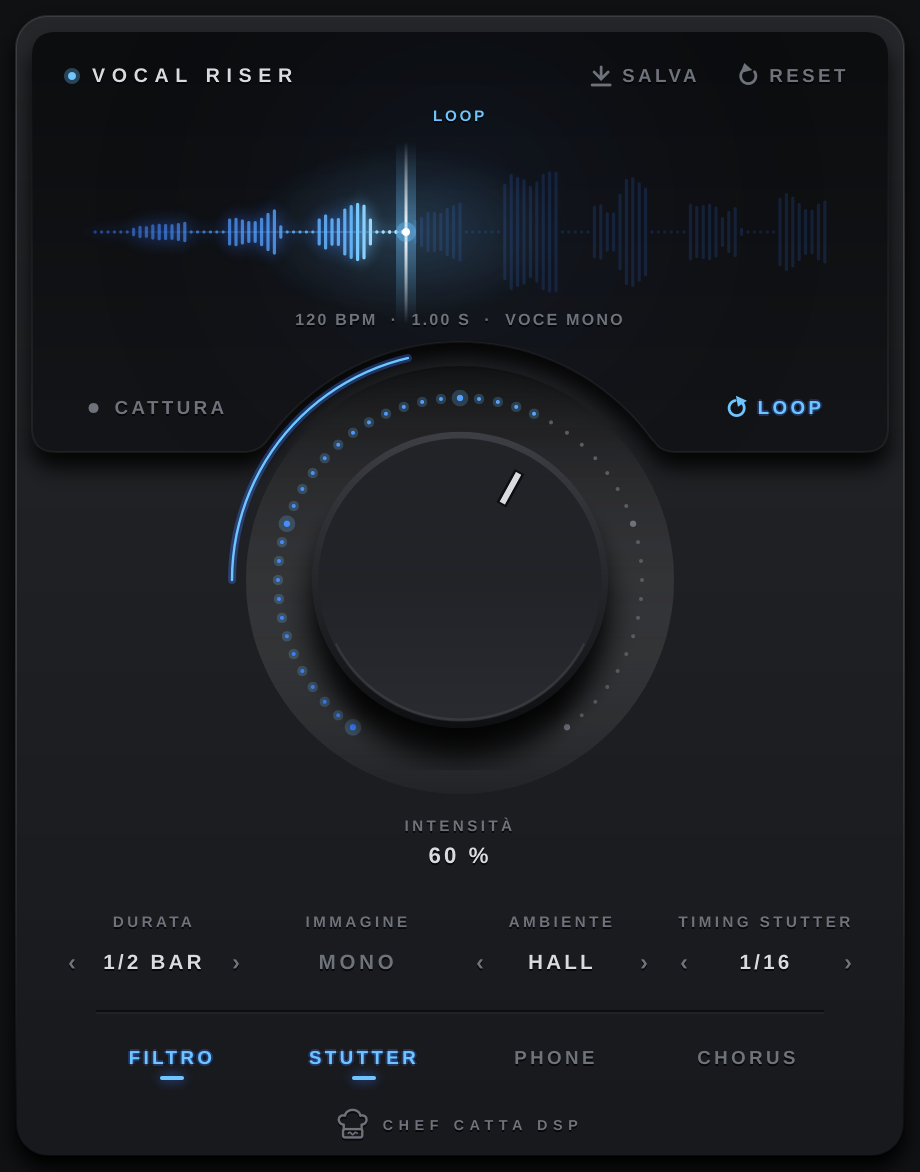
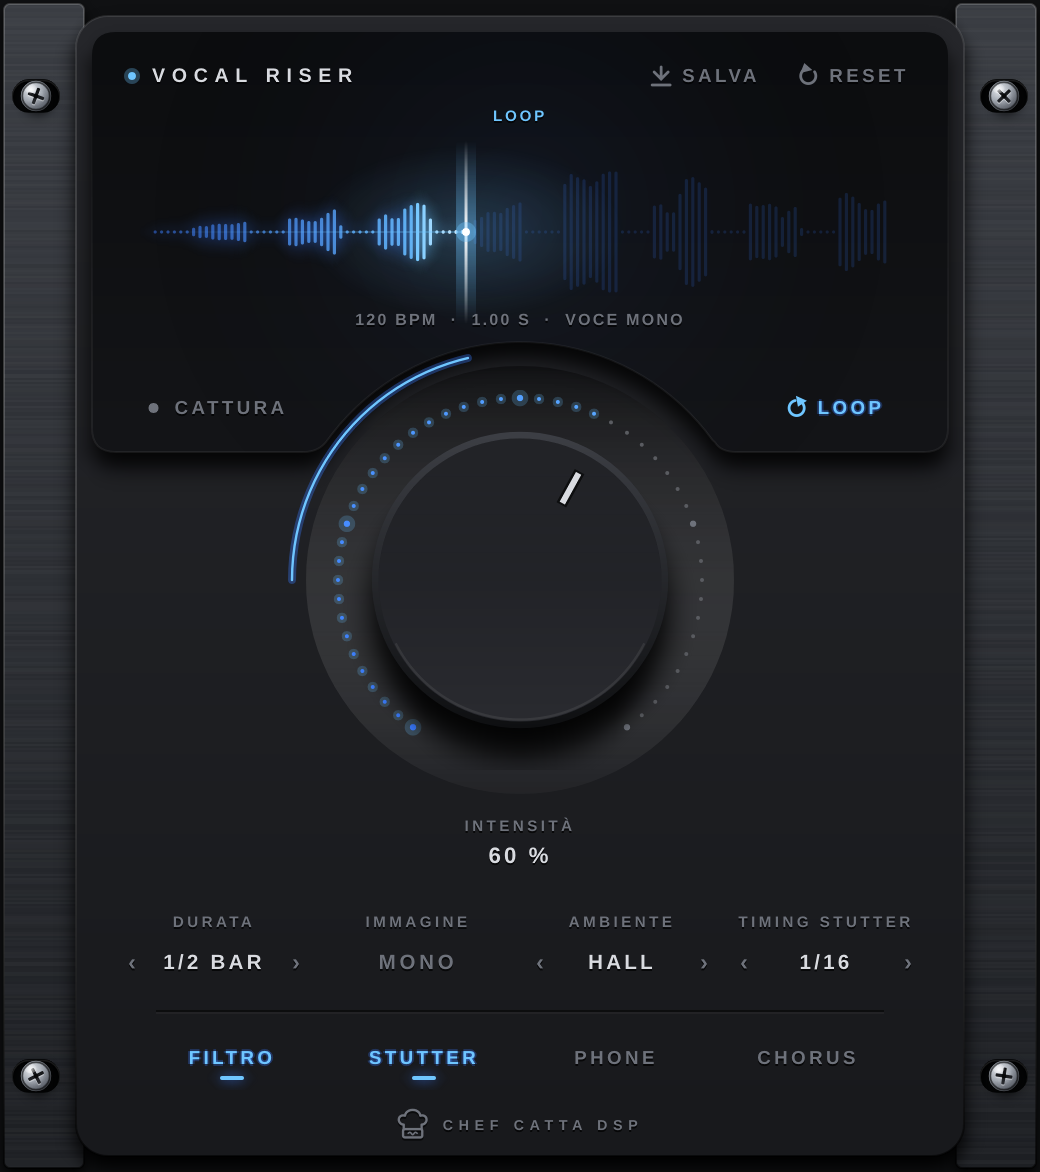
Orecchie da rack con viti 3D
Claude-Session: https://claude.ai/code/session_01HaF7XKr7HpkpQMPQsrDZc5

diff --git a/Source/PluginEditor.cpp b/Source/PluginEditor.cpp
@@ -410,6 +410,129 @@ void ArrowSelector::paint (juce::Graphics& g)
 }
 
 //==============================================================================
+// Vite a croce in metallo, vista dall'alto con luce da in alto a sinistra
+static void drawScrew (juce::Graphics& g, juce::Point<float> c, float r, float angle)
+{
+    // asola del rack: foro ovale scavato nel metallo
+    {
+        auto slot = juce::Rectangle<float> (r * 3.5f, r * 2.45f).withCentre (c);
+        juce::Path s;
+        s.addRoundedRectangle (slot, slot.getHeight() * 0.5f);
+        g.setColour (juce::Colour (0xff060708));
+        g.fillPath (s);
+        juce::Graphics::ScopedSaveState ss (g);
+        g.reduceClipRegion (s);
+        juce::Path ring;
+        ring.addRectangle (slot.expanded (10.0f));
+        ring.addRoundedRectangle (slot, slot.getHeight() * 0.5f);
+        ring.setUsingNonZeroWinding (false);
+        juce::DropShadow (juce::Colours::black, 5, { 0, 2 }).drawForPath (g, ring);
+        g.setColour (juce::Colours::white.withAlpha (0.10f));
+        g.drawRoundedRectangle (slot.translated (0.0f, 0.6f), slot.getHeight() * 0.5f, 0.8f);
+    }
+
+    juce::Path head;
+    head.addEllipse (c.x - r, c.y - r, r * 2.0f, r * 2.0f);
+
+    // ombra proiettata sul metallo
+    juce::DropShadow (juce::Colours::black.withAlpha (0.9f), juce::roundToInt (r * 0.9f), { 1, juce::roundToInt (r * 0.35f) }).drawForPath (g, head);
+
+    // rondella
+    const float wr = r * 1.12f;
+    g.setGradientFill (juce::ColourGradient (juce::Colour (0xff9aa0a8), c.x - wr, c.y - wr, juce::Colour (0xff2b2e33), c.x + wr, c.y + wr, false));
+    g.fillEllipse (c.x - wr, c.y - wr, wr * 2.0f, wr * 2.0f);
+
+    // testa bombata: gradiente radiale decentrato verso la luce
+    juce::ColourGradient dome (juce::Colour (0xffe9ecf0), c.x - r * 0.35f, c.y - r * 0.45f,
+                               juce::Colour (0xff3b3f46), c.x + r * 0.9f, c.y + r * 0.9f, true);
+    dome.addColour (0.45, juce::Colour (0xffa3a9b2));
+    dome.addColour (0.8, juce::Colour (0xff5a5f68));
+    g.setGradientFill (dome);
+    g.fillPath (head);
+
+    // finitura spazzolata concentrica, molto leggera
+    for (int i = 1; i < 6; ++i)
+    {
+        const float rr = r * (float) i / 6.0f;
+        g.setColour (juce::Colours::white.withAlpha (i % 2 ? 0.035f : 0.0f));
+        g.drawEllipse (c.x - rr, c.y - rr, rr * 2.0f, rr * 2.0f, 0.6f);
+    }
+
+    // croce Phillips incisa (ombra interna + bordo illuminato)
+    {
+        const float L = r * 0.62f, wdt = r * 0.24f;
+        juce::Path cross;
+        cross.addRoundedRectangle (-L, -wdt * 0.5f, L * 2.0f, wdt, wdt * 0.3f);
+        cross.addRoundedRectangle (-wdt * 0.5f, -L, wdt, L * 2.0f, wdt * 0.3f);
+        cross.setUsingNonZeroWinding (true);
+        const auto tf = juce::AffineTransform::rotation (angle).translated (c);
+
+        g.setColour (juce::Colours::white.withAlpha (0.35f));
+        g.fillPath (cross, tf.translated (0.0f, 0.7f));              // bordo inferiore illuminato
+        g.setGradientFill (juce::ColourGradient (juce::Colour (0xff0d0e10), c.x, c.y - L,
+                                                 juce::Colour (0xff2a2d32), c.x, c.y + L, false));
+        g.fillPath (cross, tf);
+        juce::Path centre;
+        centre.addEllipse (-wdt * 0.7f, -wdt * 0.7f, wdt * 1.4f, wdt * 1.4f);
+        g.setColour (juce::Colour (0xff08090a));
+        g.fillPath (centre, tf);
+    }
+
+    // riflesso speculare
+    juce::ColourGradient spec (juce::Colours::white.withAlpha (0.75f), c.x - r * 0.4f, c.y - r * 0.5f,
+                               juce::Colours::white.withAlpha (0.0f), c.x - r * 0.4f + r * 0.55f, c.y - r * 0.5f, true);
+    g.setGradientFill (spec);
+    g.fillEllipse (c.x - r * 0.85f, c.y - r * 0.9f, r * 0.9f, r * 0.7f);
+
+    // bordo della testa
+    g.setColour (juce::Colours::black.withAlpha (0.55f));
+    g.drawEllipse (c.x - r, c.y - r, r * 2.0f, r * 2.0f, 0.8f);
+}
+
+void VocalRiserAudioProcessorEditor::drawRackEars (juce::Graphics& g)
+{
+    const auto full = getLocalBounds().toFloat();
+    const float earW = (float) rackEar + 14.0f;   // le orecchie passano un po' sotto al corpo
+    const float angles[] = { 0.35f, 1.1f, 0.8f, 0.15f };
+    int k = 0;
+
+    for (int side = 0; side < 2; ++side)
+    {
+        auto ear = side == 0 ? full.withWidth (earW).reduced (2.0f, 2.0f)
+                             : full.withTrimmedLeft (full.getWidth() - earW).reduced (2.0f, 2.0f);
+        juce::Path p;
+        p.addRoundedRectangle (ear, 3.0f);
+
+        juce::DropShadow (juce::Colours::black, 8, { 0, 3 }).drawForPath (g, p);
+
+        // alluminio anodizzato scuro, spazzolato orizzontalmente
+        g.setGradientFill (juce::ColourGradient (juce::Colour (0xff3a3d43), ear.getX(), ear.getY(),
+                                                 juce::Colour (0xff1d1f23), ear.getX(), ear.getBottom(), false));
+        g.fillPath (p);
+        {
+            juce::Graphics::ScopedSaveState ss (g);
+            g.reduceClipRegion (p);
+            juce::Random rng (side * 77 + 5);
+            for (float yy = ear.getY(); yy < ear.getBottom(); yy += 1.0f)
+            {
+                g.setColour (juce::Colours::white.withAlpha (rng.nextFloat() * 0.035f));
+                g.fillRect (ear.getX(), yy, ear.getWidth(), 1.0f);
+            }
+        }
+        // smusso
+        g.setGradientFill (juce::ColourGradient (juce::Colours::white.withAlpha (0.18f), 0.0f, ear.getY(),
+                                                 juce::Colours::black.withAlpha (0.6f), 0.0f, ear.getBottom(), false));
+        g.strokePath (p, juce::PathStrokeType (1.0f));
+
+        // due viti per lato, nella parte visibile dell'orecchia
+        const float cx = side == 0 ? ear.getX() + (float) rackEar * 0.5f + 1.0f
+                                   : ear.getRight() - (float) rackEar * 0.5f - 1.0f;
+        for (float cy : { ear.getY() + 46.0f, ear.getBottom() - 46.0f })
+            drawScrew (g, { cx, cy }, 6.8f, angles[k++]);
+    }
+}
+
+//==============================================================================
 VocalRiserAudioProcessorEditor::VocalRiserAudioProcessorEditor (VocalRiserAudioProcessor& p)
     : AudioProcessorEditor (&p), proc (p), wave (p),
       lengthSel (*p.apvts.getParameter ("length"), "DURATA", { "1/4 BAR", "1/2 BAR", "1 BAR", "2 BAR" }),
@@ -485,7 +608,7 @@ VocalRiserAudioProcessorEditor::VocalRiserAudioProcessorEditor (VocalRiserAudioP
         buttonAtts.push_back (std::make_unique<ButtonAtt> (apvts, fxIds[i], b));
     }
 
-    setSize (460, 586);
+    setSize (460 + 2 * rackEar, 586);
     timerCallback();
     startTimerHz (60);
 }
@@ -515,7 +638,8 @@ void VocalRiserAudioProcessorEditor::paint (juce::Graphics& g)
     g.fillAll (Colours::bg);
 
     // Corpo
-    auto shellR = getLocalBounds().reduced (8).toFloat();
+    drawRackEars (g);
+    auto shellR = getLocalBounds().reduced (8).reduced (rackEar, 0).toFloat();
     juce::Path shell;
     shell.addRoundedRectangle (shellR, 16.0f);
     juce::DropShadow (juce::Colours::black, 16, { 0, 6 }).drawForPath (g, shell);
@@ -617,7 +741,7 @@ void VocalRiserAudioProcessorEditor::paint (juce::Graphics& g)
 
 void VocalRiserAudioProcessorEditor::resized()
 {
-    auto shell = getLocalBounds().reduced (8);
+    auto shell = getLocalBounds().reduced (8).reduced (rackEar, 0);
 
     // Display in alto
     displayArea = shell.withHeight (226).reduced (8, 8);

diff --git a/Source/PluginEditor.h b/Source/PluginEditor.h
@@ -64,6 +64,9 @@ public:
 private:
     void timerCallback() override;
     juce::String statusText() const;
+    void drawRackEars (juce::Graphics&);
+
+    static constexpr int rackEar = 30;   // larghezza delle "orecchie" da rack ai lati
 
     using SliderAtt = juce::AudioProcessorValueTreeState::SliderAttachment;
     using ButtonAtt = juce::AudioProcessorValueTreeState::ButtonAttachment;
